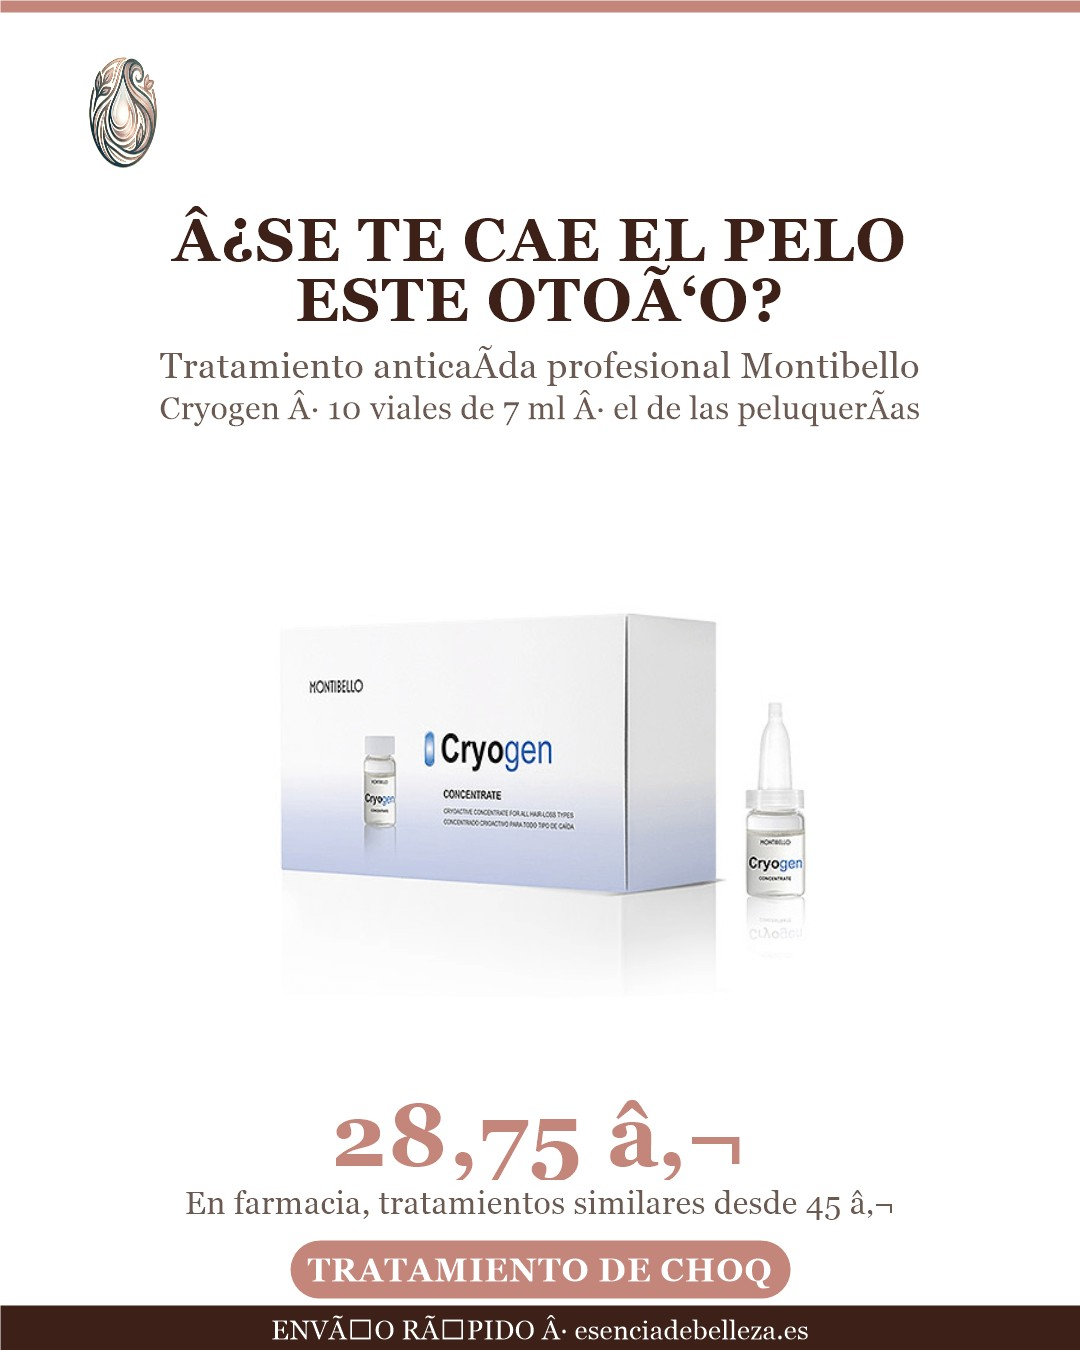
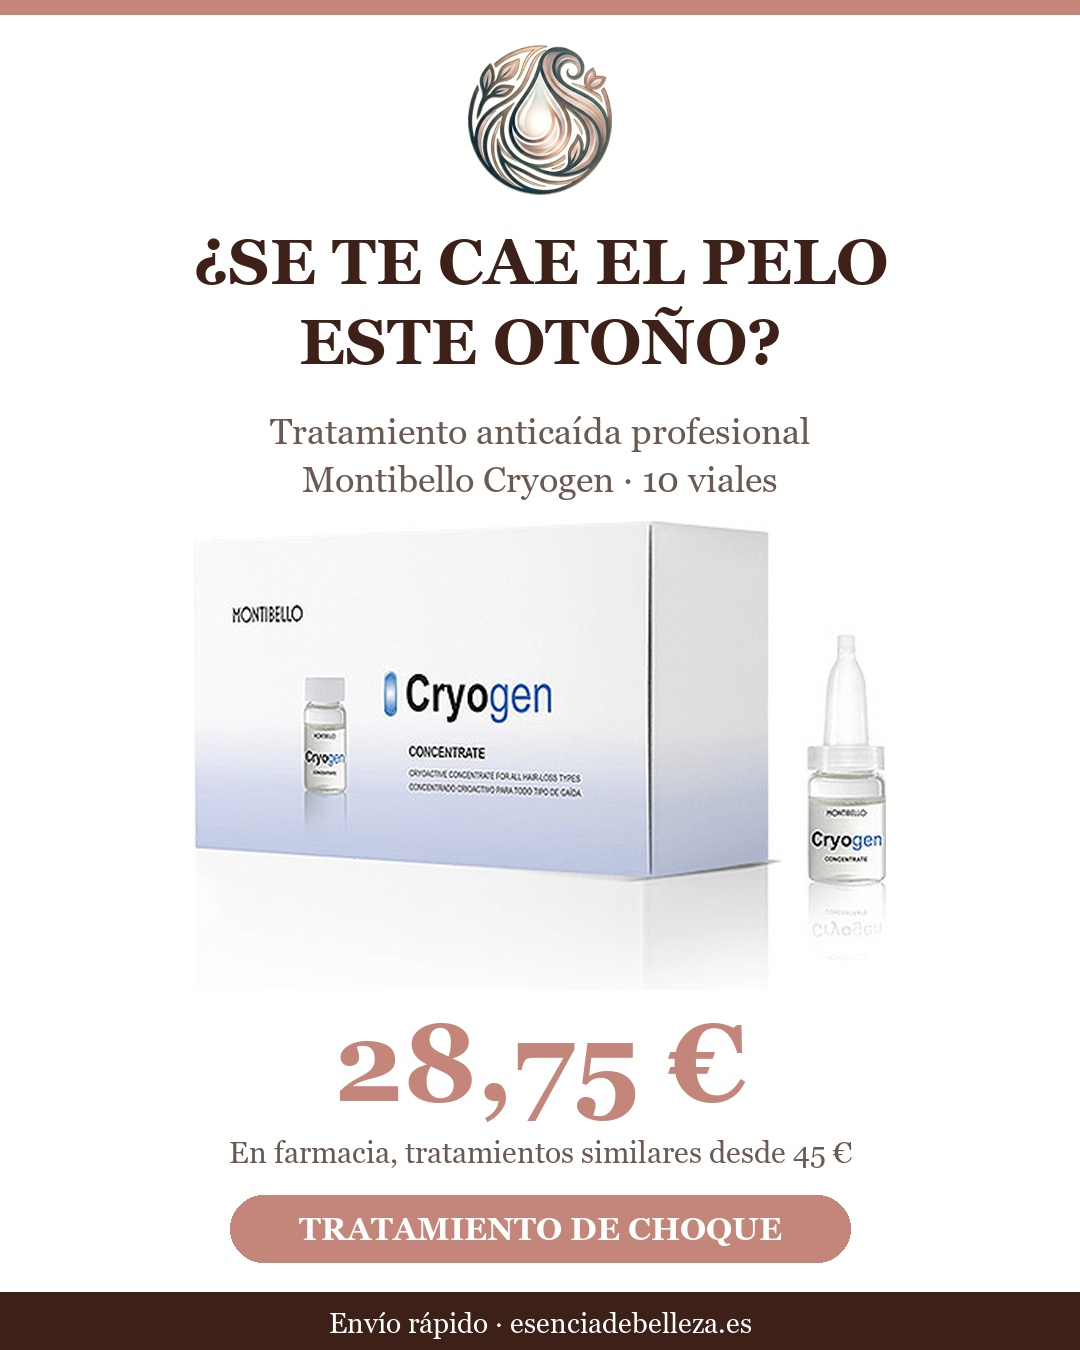
feat(marketing): creatividad Cryogen con la foto real del producto
Sustituye el script de PowerShell (corrompia acentos y la moneda) por uno
en Python y regenera la imagen a 1080x1350 con mon033.png y el logo.

diff --git a/promos/anticaida-otono/make_ad_anticaida.py b/promos/anticaida-otono/make_ad_anticaida.py
@@ -1,0 +1,65 @@
+from pathlib import Path
+from PIL import Image, ImageDraw, ImageFont
+
+BASE = Path(__file__).resolve().parent
+ROOT = BASE.parent.parent
+W, H = 1080, 1350
+
+MARRON = (61, 32, 24)
+ROSA = (196, 133, 122)
+GRIS = (107, 90, 82)
+BLANCO = (255, 255, 255)
+
+FUENTES = Path(r"C:\Windows\Fonts")
+
+
+def fuente(nombre, tam):
+    return ImageFont.truetype(str(FUENTES / nombre), tam)
+
+
+def centrado(draw, y, texto, fnt, color):
+    ancho = draw.textlength(texto, font=fnt)
+    draw.text(((W - ancho) / 2, y), texto, font=fnt, fill=color)
+
+
+def recortar_logo(ruta):
+    logo = Image.open(ruta).convert("RGBA")
+    fondo = Image.new("RGBA", logo.size, (255, 255, 255, 255))
+    caja = Image.alpha_composite(fondo, logo).convert("L").point(lambda p: 255 if p < 245 else 0).getbbox()
+    return logo.crop(caja) if caja else logo
+
+
+img = Image.new("RGB", (W, H), BLANCO)
+d = ImageDraw.Draw(img)
+
+d.rectangle([0, 0, W, 14], fill=ROSA)
+
+logo = recortar_logo(ROOT / "public" / "logo.png")
+logo.thumbnail((150, 150))
+img.paste(logo, ((W - logo.width) // 2, 45), logo)
+
+gancho = fuente("georgiab.ttf", 64)
+centrado(d, 225, "¿SE TE CAE EL PELO", gancho, MARRON)
+centrado(d, 305, "ESTE OTOÑO?", gancho, MARRON)
+
+centrado(d, 410, "Tratamiento anticaída profesional", fuente("georgia.ttf", 36), GRIS)
+centrado(d, 458, "Montibello Cryogen · 10 viales", fuente("georgia.ttf", 36), GRIS)
+
+prod = Image.open(BASE / "mon033.png").convert("RGB")
+caja = prod.convert("L").point(lambda p: 255 if p < 248 else 0).getbbox()
+prod = prod.crop(caja)
+escala = min(900 / prod.width, 470 / prod.height)
+prod = prod.resize((round(prod.width * escala), round(prod.height * escala)), Image.LANCZOS)
+img.paste(prod, ((W - prod.width) // 2, 520 + (470 - prod.height) // 2))
+
+centrado(d, 1000, "28,75 €", fuente("georgiab.ttf", 110), ROSA)
+centrado(d, 1135, "En farmacia, tratamientos similares desde 45 €", fuente("georgia.ttf", 30), GRIS)
+
+d.rounded_rectangle([230, 1195, 850, 1262], radius=34, fill=ROSA)
+centrado(d, 1210, "TRATAMIENTO DE CHOQUE", fuente("georgiab.ttf", 32), BLANCO)
+
+d.rectangle([0, 1292, W, H], fill=MARRON)
+centrado(d, 1307, "Envío rápido · esenciadebelleza.es", fuente("georgia.ttf", 28), BLANCO)
+
+img.save(BASE / "ad_anticaida.jpg", quality=95)
+print("ad_anticaida.jpg", img.size)
